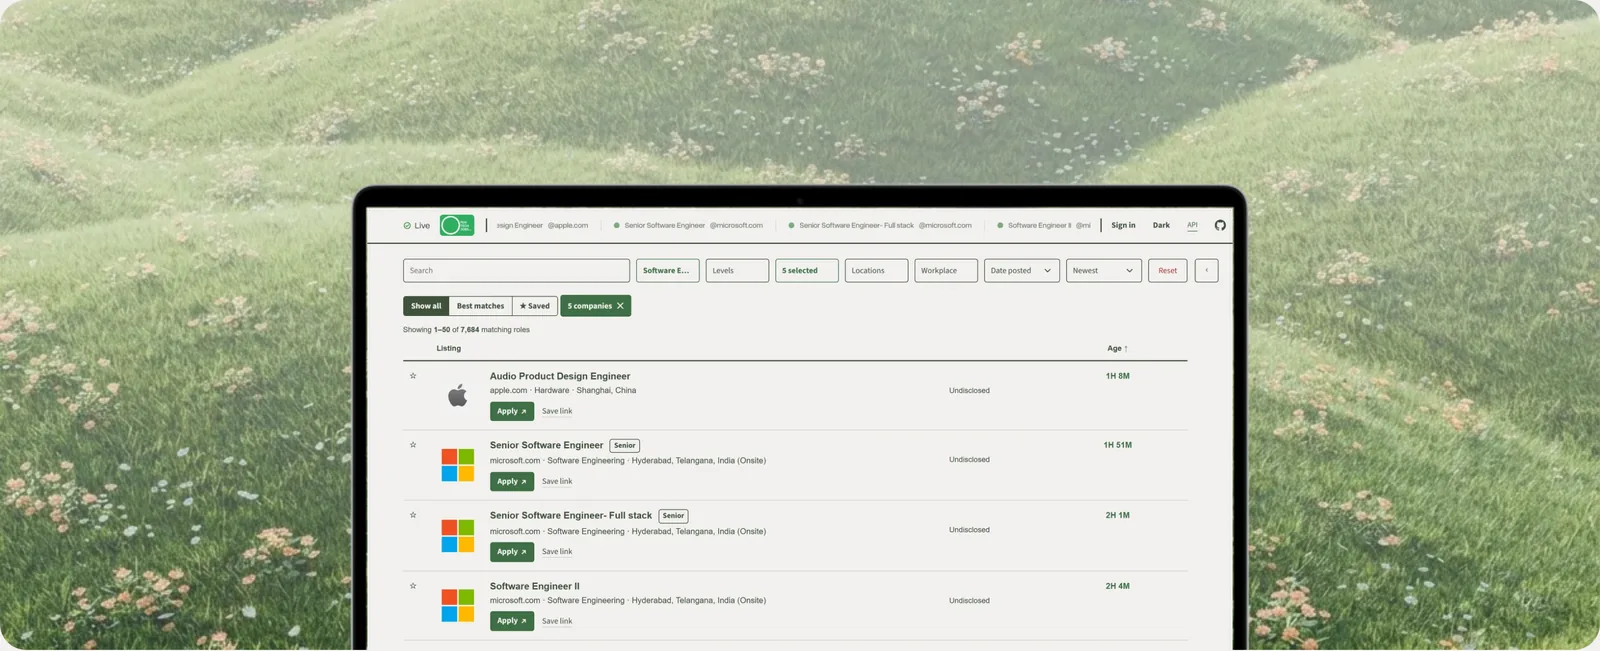
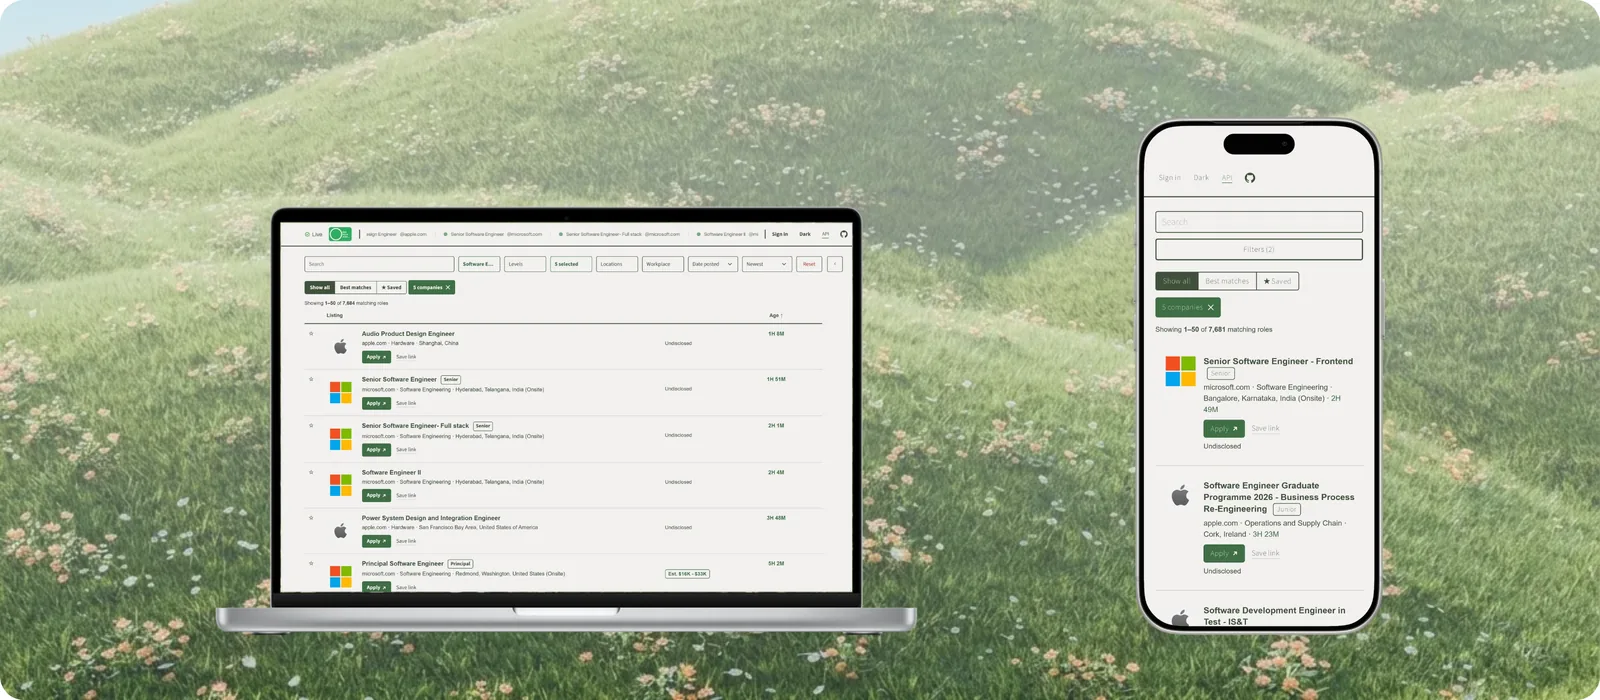
Show the board on both devices in the README
The picture had only the laptop. Both device files already carry the
board composited into the screen (see .showcase-device), so this stacks
them on the hills rather than insetting screenshots into bezels.

Spacing is measured, not eyeballed: 215px at the left edge, 215px
between the two, 215px at the right, with both standing on one baseline
64px off the bottom. The laptop is wider and the phone taller, so their
heights are set to 430 and 520 rather than matched, which would have
left the phone looking small next to it.

138KB, up from 109KB for the single-device version. Two devices and more
of the field in frame costs the difference, and it is still under
hills.webp at 225KB.

diff --git a/README.md b/README.md
@@ -2,7 +2,7 @@
 
 Open-source Israeli tech job board. Scrapes job listings directly from ATS APIs, tracks them over time, and serves them through a lightweight public API.
 
-![The job board, showing live listings from Apple and Microsoft](frontend/img/readme-hero.webp)
+![The job board on a laptop and a phone, showing live listings from Apple and Microsoft](frontend/img/readme-hero.webp)
 
 ## Architecture
 
